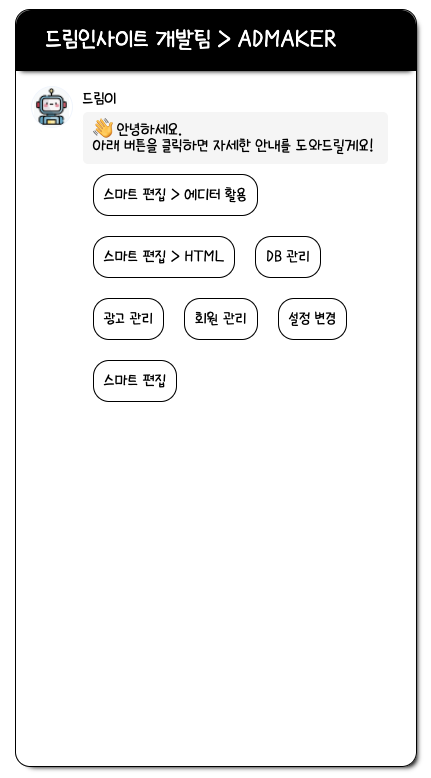
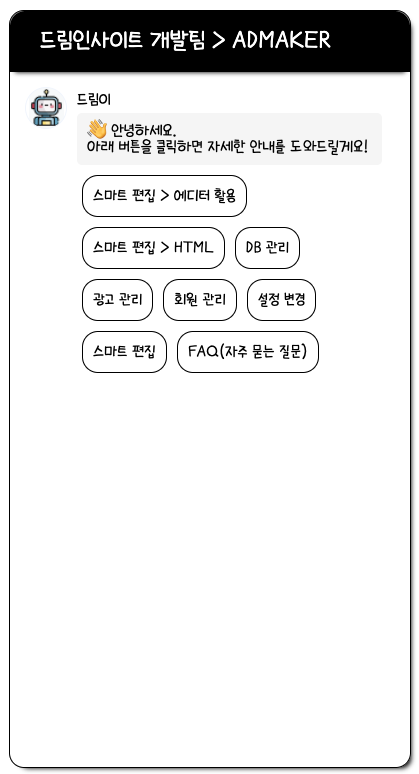
client > 버튼 css 변경

Changed region(s): [[0.0, 0.0, 0.9928, 1.0]]

diff --git a/client/src/components/chatbot/ChatItem/index.tsx b/client/src/components/chatbot/ChatItem/index.tsx
@@ -21,6 +21,7 @@ const ChatItem: FC = () => {
     { text: '회원 관리', value: 5 },
     { text: '설정 변경', value: 6 },
     { text: '스마트 편집', value: 7 },
+    { text: 'FAQ(자주 묻는 질문)', value: 8 },
   ];
 
 
@@ -30,22 +31,43 @@ const ChatItem: FC = () => {
   }
 
   return (
-    <Item>
-      <Profile/>
-      <Wrapper>
-        <Name>드림이</Name>
+    <div>
+
+      <Item>
+        <Profile/>
         <Wrapper>
-          <Message>👋 안녕하세요.<br/>아래 버튼을 클릭하면 자세한 안내를 도와드릴게요!</Message>
-          {MENU_GUIDE.map(data => (
+          <Name>드림이</Name>
+          <Wrapper>
+            <Message>👋 안녕하세요.<br/>아래 버튼을 클릭하면 자세한 안내를 도와드릴게요!</Message>
+            {MENU_GUIDE.map(data => (
               <Button size="sm"
-                key={data.value}
-                onClick={() => select(data.value)}
+                      key={data.value}
+                      onClick={() => select(data.value)}
               >{data.text}
               </Button>
             ))}
+          </Wrapper>
         </Wrapper>
-      </Wrapper>
-    </Item>
+      </Item>
+
+
+      <Item>
+        <Profile/>
+        <Wrapper>
+          <Name>드림이</Name>
+          <Wrapper>
+            <Message><strong>FAQ(자주 묻는 질문)</strong></Message>
+            {MENU_GUIDE.map(data => (
+              <Button size="sm"
+                      key={data.value}
+                      onClick={() => select(data.value)}
+              >{data.text}
+              </Button>
+            ))}
+          </Wrapper>
+        </Wrapper>
+      </Item>
+    </div>
   );
 };
 

diff --git a/client/src/components/common/Button/index.tsx b/client/src/components/common/Button/index.tsx
@@ -32,7 +32,7 @@ const Button = styled.button<{ size: Size }>`
   color: #000;
   border-radius: 16px;
   padding: 10px;
-  margin: 10px;
+  margin: 5px;
   &:hover {
     background: #000;
     color: #fff;

diff --git a/client/src/components/chatbot/ChatItem/index.style.ts b/client/src/components/chatbot/ChatItem/index.style.ts
@@ -31,5 +31,6 @@ export const Message = styled.div`
   display: flex;
   align-items: center;
   padding: 10px;
+  margin-bottom: 5px;
   overflow-wrap: anywhere;
 `;
